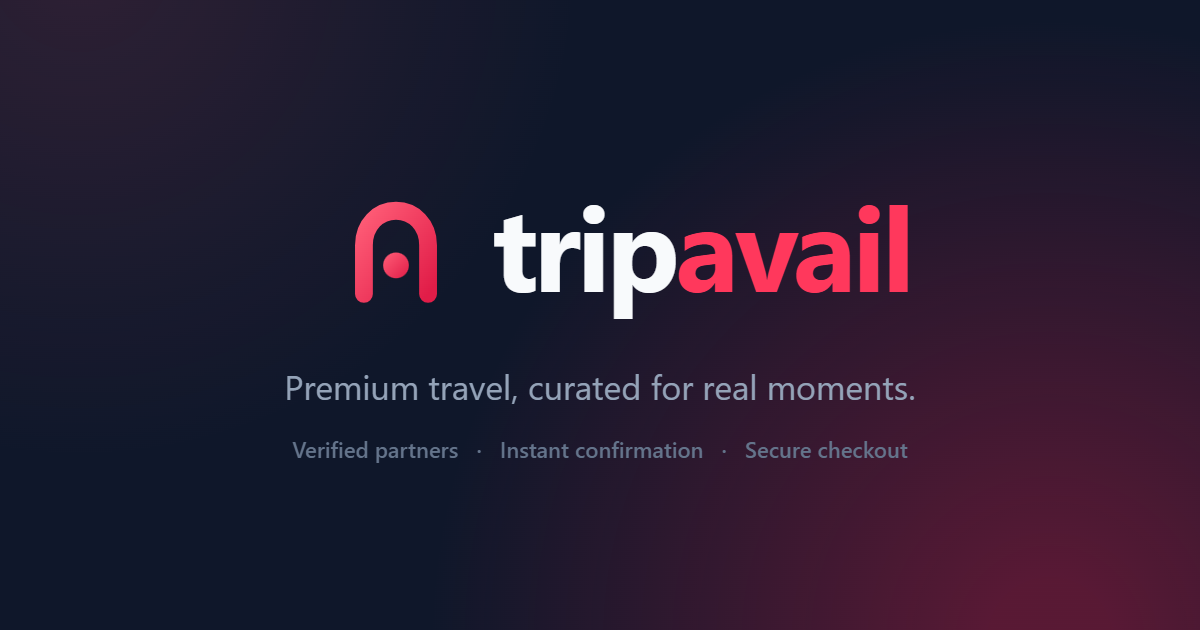
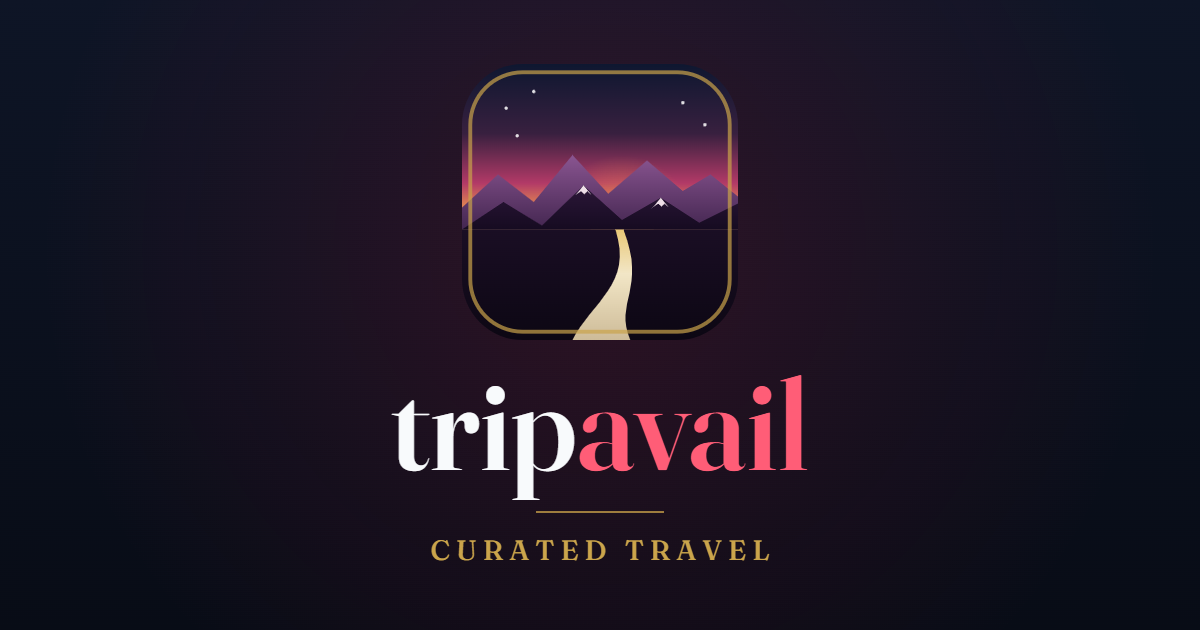
feat(brand): Karakoram scene emblem + Fraunces wordmark identity
Replaces the Gateway mark (owner rejected the pin/arch/monogram directions as generic or
clip-art). New identity, chosen by the owner after web research into how premium travel &
hospitality brands are built:

- Mark: a rendered golden-hour Karakoram scene — layered snow-capped peaks, a rose/gold
  sunset sky, and a winding journey road, in a gold-framed tile. Warm and illustrative
  (what the owner wanted) but authentic to TripAvail's real mountains, not a stock
  pin-and-plane. Rendered as a rich PNG master (canvas gradients/depth), not flat vector.
- Wordmark: "tripavail" set in Fraunces (high-contrast editorial serif), 'avail' in rose,
  loaded from Google Fonts (no CSP blocks it).

Wired everywhere: header (emblem badge + Fraunces wordmark), favicon.svg (scalable wrap of
the 256 emblem) + PNG favicon, apple-touch-icon (180), 1200x630 social card (scene +
wordmark + "curated travel"), Organization JSON-LD logo. Old monogram PNGs removed.

diff --git a/packages/web/src/pages/LandingPage.tsx b/packages/web/src/pages/LandingPage.tsx
@@ -77,7 +77,7 @@ export default function LandingPage() {
         '@type': 'Organization',
         name: 'TripAvail',
         url: 'https://tripavail.com',
-        logo: 'https://tripavail.com/favicon.svg',
+        logo: 'https://tripavail.com/brand/logo-emblem-512.png',
       },
     ],
   })
@@ -620,32 +620,18 @@ function AirbnbHeader() {
           {/* Logo */}
           <div className="flex items-center shrink-0 order-1">
             <div className="flex items-center gap-1.5 cursor-pointer">
-              {/* TripAvail brand mark — the Gateway: arch portal (an abstract "A" for
-                  Avail) + traveller orb */}
-              <svg
-                viewBox="0 0 64 64"
-                className="block h-8 w-8"
-                xmlns="http://www.w3.org/2000/svg"
-                aria-hidden="true"
-                role="presentation"
-                focusable="false"
+              {/* TripAvail — gold "ta" monogram badge + Fraunces wordmark */}
+              <img
+                src="/brand/logo-emblem-256.png"
+                alt="TripAvail"
+                width={32}
+                height={32}
+                className="block h-8 w-8 shrink-0 rounded-[7px]"
+              />
+              <span
+                className="hidden md:block text-2xl tracking-tight leading-none"
+                style={{ fontFamily: "'Fraunces', Georgia, serif", fontWeight: 600 }}
               >
-                <defs>
-                  <linearGradient id="ta-rose-hdr" x1="0" y1="0" x2="1" y2="1">
-                    <stop offset="0" stopColor="#FF5D77" />
-                    <stop offset="1" stopColor="#E11D48" />
-                  </linearGradient>
-                </defs>
-                <path
-                  d="M18.5 53V32.5C18.5 24 24.5 18 32 18s13.5 6 13.5 14.5V53"
-                  fill="none"
-                  stroke="url(#ta-rose-hdr)"
-                  strokeWidth="7.5"
-                  strokeLinecap="round"
-                />
-                <circle cx="32" cy="41" r="5.4" fill="url(#ta-rose-hdr)" />
-              </svg>
-              <span className="hidden md:block font-bold text-xl tracking-tighter">
                 <span className="text-foreground">trip</span>
                 <span className="text-[#FF385C]">avail</span>
               </span>

diff --git a/packages/web/index.html b/packages/web/index.html
@@ -4,7 +4,17 @@
 <head>
   <meta charset="UTF-8" />
   <link rel="icon" type="image/svg+xml" href="/favicon.svg" />
+  <link rel="icon" type="image/png" href="/brand/logo-emblem-256.png" />
+  <link rel="apple-touch-icon" sizes="180x180" href="/apple-touch-icon.png" />
+  <meta name="theme-color" content="#0C1322" />
   <meta name="viewport" content="width=device-width, initial-scale=1.0" />
+
+  <!-- Brand typeface: Fraunces (wordmark). Preconnect + async load. -->
+  <link rel="preconnect" href="https://fonts.googleapis.com" />
+  <link rel="preconnect" href="https://fonts.gstatic.com" crossorigin />
+  <link
+    href="https://fonts.googleapis.com/css2?family=Fraunces:opsz,wght@9..144,500;9..144,600;9..144,700&display=swap"
+    rel="stylesheet" />
   <title>TripAvail - Find Your Perfect Stay</title>
   <meta name="description" content="Discover and book tours, hotels, and travel packages across Pakistan and beyond. Verified operators, secure payments, real-time availability." />
   <meta property="og:title" content="TripAvail - Find Your Perfect Stay" />